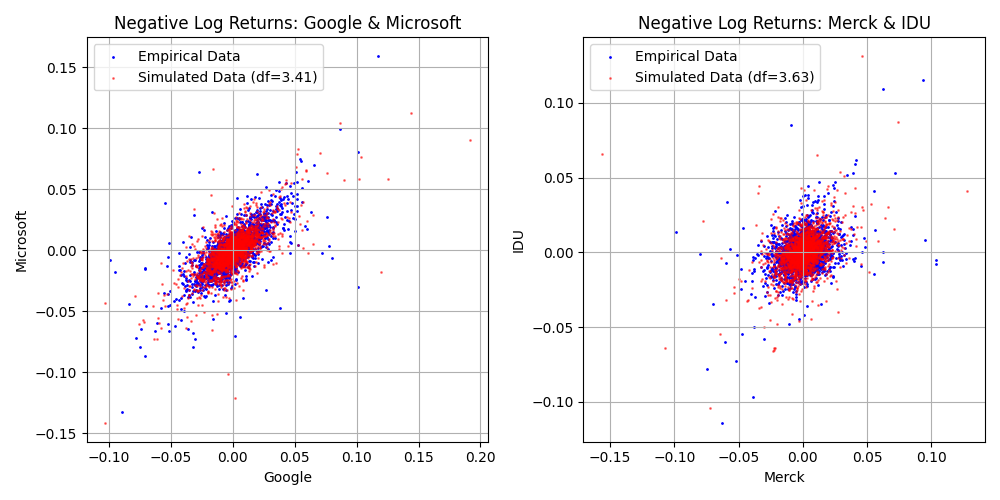
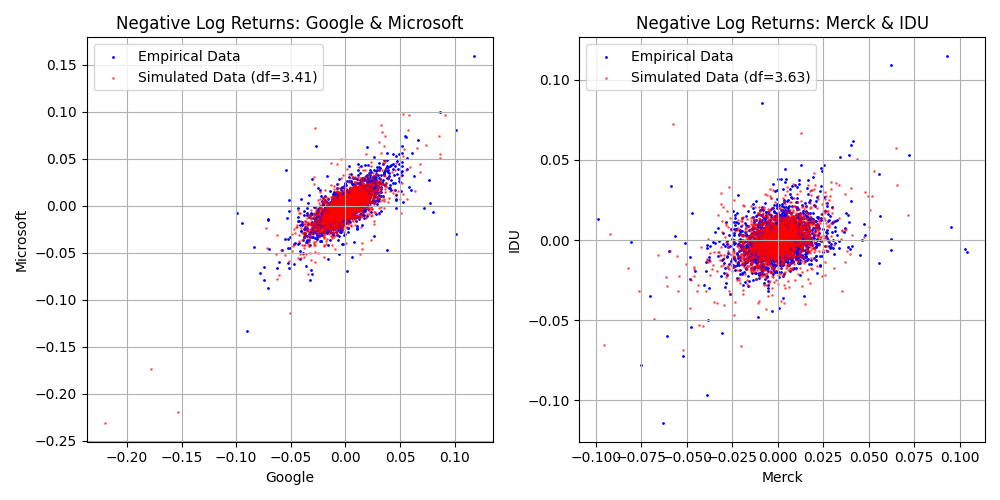
final figures (hopefully)

diff --git a/Mandatory assignment.py b/Mandatory assignment.py
@@ -474,7 +474,7 @@ plt.show()
 # plot for saving.
 plt.scatter(X_gumb1[:,0],X_gumb1[:,1],color='red',
             label = 'Simulated data from Gumbel Copula',s=1)
-plt.scatter(mrk_neg, idu_neg, color='blue', s=1, label="Empirical Data")
+plt.scatter(goog_neg, msft_neg, color='blue', s=1, label="Empirical Data")
 plt.xlabel('Google')
 plt.ylabel('Microsoft')
 plt.legend()
@@ -618,16 +618,6 @@ X_com2[:,0] = u.inverse_GPD_emp(u_com2[:,0],np.sort(mrk_neg),
                                   u_list[2],beta_list[2],gamma_list[2])
 X_com2[:,1] = u.inverse_GPD_emp(u_com2[:,1],np.sort(idu_neg),
                                   u_list[3],beta_list[3],gamma_list[3])
-
-# Tech
-L_cop_pf1 = L_fun((-1)*X_com1,S_0)
-VaR_cop_pf1 = u.VaR(L_cop_pf1,var_thres)
-print(f"Comonotonic Copula VaR PF1 {VaR_cop_pf1.round(3)}")
-
-# Other index. 
-L_cop_pf2 = L_fun((-1)*X_com2,S_0)
-VaR_cop_pf2 = u.VaR(L_cop_pf2,var_thres)
-print(f"Comonotonic Copula VaR PF2 {VaR_cop_pf2.round(3)}")
 
 
 
